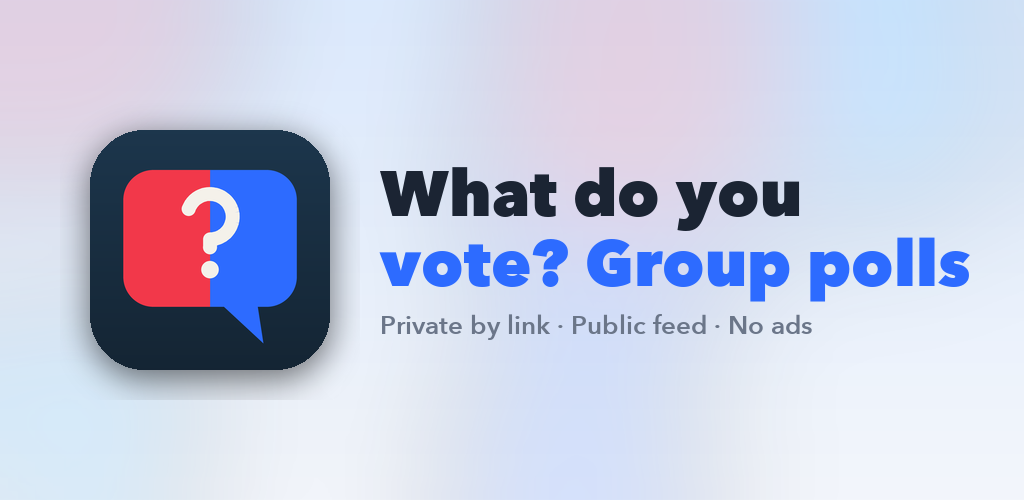
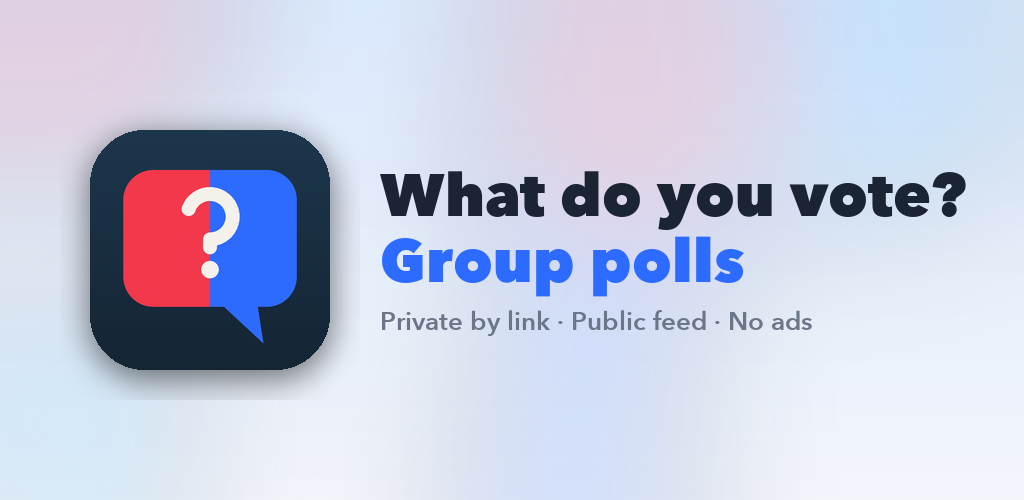
Release builds: Christmas 5 (4.1), impostor 4, tournaments store listing (#30)
- Christmas: versionCode 5 / 4.1 for the new name, changelogs.
- Impostor: versionCode 4 (new icon, fixes) for internal testing.
- Tournaments: Play listing texts (en/es), capture_store_screenshots.sh,
  generate_store_assets.py, screenshots and feature graphics.
- store_assets.py: titles in the "¿Question? What it is" shape break
  after the question (the English Christmas and polls graphics wrapped
  mid-question before).
- PENDING: what to upload for each app.

Claude-Session: https://claude.ai/code/session_01Y4G3xPj6Pwws8jz8BPCSLR

Changed region(s): [[0.375, 0.33, 0.9688, 0.6], [0.375, 0.63, 0.6875, 0.69], [0.7188, 0.63, 0.8125, 0.69]]

diff --git a/apps/tournaments/tools/generate_store_assets.py b/apps/tournaments/tools/generate_store_assets.py
@@ -1,0 +1,58 @@
+"""Builds the Google Play listing graphics of Last one standing? from raw app screenshots.
+
+The drawing lives in scripts/store_assets.py (shared by every app); this file only holds the
+app's colours and headlines. Inputs and outputs: see that module.
+
+Usage (repo root): .venv/bin/python apps/tournaments/tools/generate_store_assets.py
+"""
+import sys
+from pathlib import Path
+
+ROOT = Path(__file__).resolve().parent.parent
+sys.path.insert(0, str(ROOT.parent.parent / "scripts"))
+from store_assets import Style, build  # noqa: E402
+
+# The app's "Arena" palette: deep blue night, cream text, gold for winners.
+INK_TOP, INK = (30, 58, 82), (18, 32, 45)
+GOLD, CREAM = (255, 200, 61), (244, 241, 234)
+ACCENTS = [(255, 200, 61), (61, 220, 151), (255, 107, 107), (108, 142, 245)]
+
+LOCALES = {
+    "en-US": {
+        "title": "Last one standing? Tournaments",
+        "tagline": "Knockout · Swiss · No accounts · No ads",
+        "headlines": {
+            "01-champion": ("Only one", "takes the crown"),
+            "02-result": ("Results in", "one tap"),
+            "03-bracket": ("A two-sided bracket", "with the victory line"),
+            "04-standings": ("Swiss with", "proper tie-breakers"),
+            "05-share": ("To another phone", "with a QR code"),
+            "06-stats": ("Your league's", "hall of fame"),
+        },
+    },
+    "es-ES": {
+        "title": "¿Solo quedará uno? Torneos",
+        "tagline": "Eliminatoria · Suizo · Sin cuentas · Sin anuncios",
+        "headlines": {
+            "01-champion": ("Solo uno", "se lleva la corona"),
+            "02-result": ("Resultados", "en un toque"),
+            "03-bracket": ("Cuadro a dos lados", "con la línea de victoria"),
+            "04-standings": ("Suizo con", "desempates de verdad"),
+            "05-share": ("A otro móvil", "con un QR"),
+            "06-stats": ("El salón de la fama", "de vuestra liga"),
+        },
+    },
+}
+
+STYLE = Style(
+    top=INK_TOP,
+    bottom=INK,
+    headline=CREAM,
+    highlight=GOLD,
+    tagline=(169, 182, 194),
+    accents=ACCENTS,
+)
+
+
+if __name__ == "__main__":
+    build(ROOT, STYLE, LOCALES)

diff --git a/scripts/store_assets.py b/scripts/store_assets.py
@@ -124,17 +124,24 @@ def feature_graphic(style, store, locale):
     title = locale["title"]
     size = 64
     f = font(size, HEAVY)
-    words = title.split()
-    # Wrap the title into at most two lines that fit the text column.
-    lines, line = [], ""
-    for word in words:
-        candidate = f"{line} {word}".strip()
-        if d.textlength(candidate, font=f) <= text_w:
-            line = candidate
-        else:
-            lines.append(line)
-            line = word
-    lines.append(line)
+    if "? " in title:
+        # "¿Question? What it is": the question on top, the keyword part in the highlight colour.
+        question, rest = title.split("? ", 1)
+        lines = [question + "?", rest]
+        while max(d.textlength(t, font=f) for t in lines) > text_w and size > 40:
+            size -= 2
+            f = font(size, HEAVY)
+    else:
+        # Wrap the title into at most two lines that fit the text column.
+        lines, line = [], ""
+        for word in title.split():
+            candidate = f"{line} {word}".strip()
+            if d.textlength(candidate, font=f) <= text_w:
+                line = candidate
+            else:
+                lines.append(line)
+                line = word
+        lines.append(line)
     y = 250 - (len(lines) * size * 1.1 + 56) / 2
     for i, text in enumerate(lines):
         d.text((text_x, y), text, font=f, fill=style.headline if i == 0 else style.highlight)

diff --git a/PENDING.md b/PENDING.md
@@ -14,7 +14,7 @@ Lines are pruned as items ship. What has **shipped** lives in `apps/<app>/releas
 
 | | What is missing | Waiting on |
 |---|---|---|
-| 👤 | New name "¿Ya es Navidad? Cuenta atrás" / "Is it Christmas yet? Countdown": paste the titles and feature graphics from `store/metadata` into the listing with the next release (the launcher name changes with that build) | Next release · the website already uses it |
+| 👤 | Upload v5 (4.1, new name "¿Ya es Navidad? Cuenta atrás" / "Is it Christmas yet? Countdown") and, with it, the new titles and feature graphics from `store/metadata` | You · bundle built from master, notes in `changelogs/5.txt` |
 | ⏳ | Check v4 on a real phone after Play approval: the 3 new carols (transcribed from memory), share text in both modes, widget | Google's review of v4 |
 | 👤 | Review the 24 advent entries (EN + ES): content, tone, and facts flagged as shaky (day 8 snowflakes "all six arms", day 20 tinsel ~1610, day 22 NORAD founded 1958, CONAD in 1955) | You · entries in `app/src/main/res/values{,-es}/strings.xml` (`advent_entries`) |
 | 👤 | Spanish carols (Los peces en el río, Campana sobre campana, Fum fum fum, Marimorena) | Reliable public-domain scores from you · *El burrito sabanero* is copyrighted (1972), not allowed |
@@ -25,24 +25,24 @@ Lines are pruned as items ship. What has **shipped** lives in `apps/<app>/releas
 
 | | What is missing | Waiting on |
 |---|---|---|
-| ⏳ | 1.1: favourites (presets and custom) listed first, launcher shortcuts for up to 3 favourite/recent wheels, optional "Restore example wheels" | Your go-ahead |
+| 👤 | Upload v2 (1.1: favourites, launcher shortcuts, restore example wheels) to production, with the updated full description | You · bundle built from master, notes in `changelogs/2.txt` |
 
 ## whos-lying
 
 | | What is missing | Waiting on |
 |---|---|---|
-| 👤 | Internal test with 4–5 friends from Google Play (upload the v3 bundle first): word pairs, flow, readability | You · Play Console internal testing |
+| 👤 | Upload v4 (new icon, fixes) to internal testing and test with 4–5 friends: word pairs, flow, readability | You · bundle built from master, notes in `changelogs/4.txt` |
 | ⏳ | A tester got "Item not found" on the opt-in link: likely the first review still pending or the wrong Google account in Play | Their next try |
 | ⏳ | Open-source license (GPL-3.0 was the candidate) | Your decision · not licensed for now |
 | ⏳ | Sharing packs between phones (QR or text) | Feedback after real use |
-| 👤 | New icon (a line-up, the liar in a fedora): upload `store/play-icon-512.png` and the feature graphics to the listing now; the launcher icon ships with versionCode 4 | You · Play Console → Main store listing |
+| 👤 | New icon (a line-up, the liar in a fedora): upload `store/play-icon-512.png` and the feature graphics to the listing | You · Play Console → Main store listing |
 | ⏳ | Play Console suggests "Integrate Play Games Services" (shown because the app is in the Games category). Optional: sign-in, achievements, leaderboards. Little value for a one-phone party game with no account; decide whether to dismiss it or add a few achievements later | Your decision |
 
 ## group-polls (new app)
 
 | | What is missing | Waiting on |
 |---|---|---|
-| 👤 | Create the app in Play Console (`com.jorgelillo.grouppolls`, App · Social) and its upload key (`scripts/new-upload-key.sh group-polls`) | You · answers in `apps/group-polls/OPERATIONS.md` → "Play Console answers" |
+| 👤 | Create the app in Play Console (`com.jorgelillo.grouppolls`, App · Social) and its upload key (`scripts/new-upload-key.sh group-polls`). Listing texts and graphics are ready in `store/metadata`; don't upload a bundle until Firebase exists (without it the app runs on sample polls) | You · answers in `apps/group-polls/OPERATIONS.md` → "Play Console answers" |
 | 👤 | Create the Firebase project and give the OK | You · lillorepo `packages/group_polls/OPERATIONS.md` → "Create the project" |
 | 🔨 | Then: `firebase.properties`, App Check (Play Integrity + debug token), Play signing SHA-256 in `assetlinks.json`, publish `/q/` and `assetlinks.json` on the website (privacy page already live), Terraform on, internal test | The two steps above · plan in [docs/plans/group-polls.md](docs/plans/group-polls.md) |
 
@@ -50,8 +50,8 @@ Lines are pruned as items ship. What has **shipped** lives in `apps/<app>/releas
 
 | | What is missing | Waiting on |
 |---|---|---|
-| 👤 | Create the app in Play Console (`com.jorgelillo.tournaments`, App · Tools or Board games) and its upload key (`scripts/new-upload-key.sh tournaments`) | You |
-| 🔨 | Then: Play signing SHA-256 in `assetlinks.json`, the `/t/` fallback page on the website (privacy page already live), store screenshots and listing texts, internal test | The step above · plan in [docs/plans/tournaments.md](docs/plans/tournaments.md) |
+| 👤 | Create the app in Play Console (`com.jorgelillo.tournaments`, App · Tools or Board games) and its upload key (`scripts/new-upload-key.sh tournaments`); then I rebuild the signed bundle. Listing texts, screenshots and feature graphics are ready in `store/metadata` | You |
+| 🔨 | Then: Play signing SHA-256 in `assetlinks.json`, the `/t/` fallback page on the website (privacy page already live), internal test | The step above · plan in [docs/plans/tournaments.md](docs/plans/tournaments.md) |
 | ⏳ | Double elimination and round robin | Feedback after real use |
 
 ## repo

diff --git a/apps/tournaments/OPERATIONS.md b/apps/tournaments/OPERATIONS.md
@@ -15,6 +15,7 @@ Package: `com.jorgelillo.tournaments` (minSdk 24: navigation-compose needs it).
 | Install debug | `./gradlew :apps:tournaments:app:installDebug` |
 | Smoke test (release) | `apps/tournaments/tools/smoke_test.sh` |
 | Regenerate icons | `.venv/bin/python apps/tournaments/tools/generate_icon.py` |
+| Store screenshots | emulator running: `apps/tournaments/tools/capture_store_screenshots.sh`, check `store/raw/`, then `.venv/bin/python apps/tournaments/tools/generate_store_assets.py` |
 | Import a shared link on the emulator | `adb shell "am start -a android.intent.action.VIEW -d '<link>' com.jorgelillo.tournaments"` |
 
 UI test tags (`scripts/tap-text.sh`, dialogs included): `new`, `import`, `import_text`,
@@ -40,4 +41,4 @@ Play app signing key), like group-polls. Until then: share to the app, or Import
 
 | versionCode | Version | Notes |
 |---|---|---|
-| — | 1.0 | Not uploaded yet |
+| 1 | 1.0 | Not uploaded yet (needs the upload key) |

diff --git a/apps/whos-lying/OPERATIONS.md b/apps/whos-lying/OPERATIONS.md
@@ -39,6 +39,7 @@ Releases follow the `release-android-app` skill.
 | 1 | 1.0 | 2026-10-07 | — | Uploaded to the bundle library by mistake, never released. **Code 1 is burnt.** |
 | 2 | 1.0 | 2026-10-07 | Internal testing | First test with friends. Word packs without alcohol / drinking games, for a PEGI 3 rating |
 | 3 | 1.0 | 2026-10-08 | Internal testing | Landscape / short screens (AYN Thor): compact reveal curtain and secret card, drawing canvas beside the tools, voting grid without the header, start button inside the setup list |
+| 4 | 1.0 | 2026-10-11 | Internal testing (to upload) | New icon, lint fixes, shared core code (JsonStore, sharing, links) |
 
 Upload key (created 5 Oct 2026 with `scripts/new-upload-key.sh`, see [docs/signing.md](../../docs/signing.md)):
 

diff --git a/apps/christmas-countdown/release-notes.md b/apps/christmas-countdown/release-notes.md
@@ -5,6 +5,7 @@ Newest first. User-facing notes per language (as uploaded to Play) are in
 
 | versionCode | Version | Date | Notes |
 |---|---|---|---|
+| 5 | 4.1 | Oct 2026 (not uploaded yet) | Renamed "¿Ya es Navidad? Cuenta atrás" / "Is it Christmas yet? Countdown"; About sheet and app start from the shared core |
 | 4 | 4.0 | Oct 2026 | 3 more carols in shuffled order, share text matches the mode, toolchain 2026 (AGP 9.4, Gradle 9.8, Kotlin 2.4) |
 | 3 | 3.0 | Oct 2026 | Kotlin + Compose rewrite: advent, widget, carols, sleeps, new icon |
 | 2 | 2.0 | Oct 2026 | Relaunch after the developer account was reactivated: API 36, countdown no longer stuck in 2021 |

diff --git a/apps/whos-lying/release-notes.md b/apps/whos-lying/release-notes.md
@@ -5,4 +5,5 @@ Newest first. User-facing notes per language are in
 
 | versionCode | Version | Date | Notes |
 |---|---|---|---|
+| 4 | 1.0 | — (internal testing) | New icon (line-up with the liar in a fedora), clearer round/score texts, shared core code |
 | 1 | 1.0 | — (not released) | First version: Classic, Blind and Drifter modes, Chaos, 6 packs per language, custom packs |
